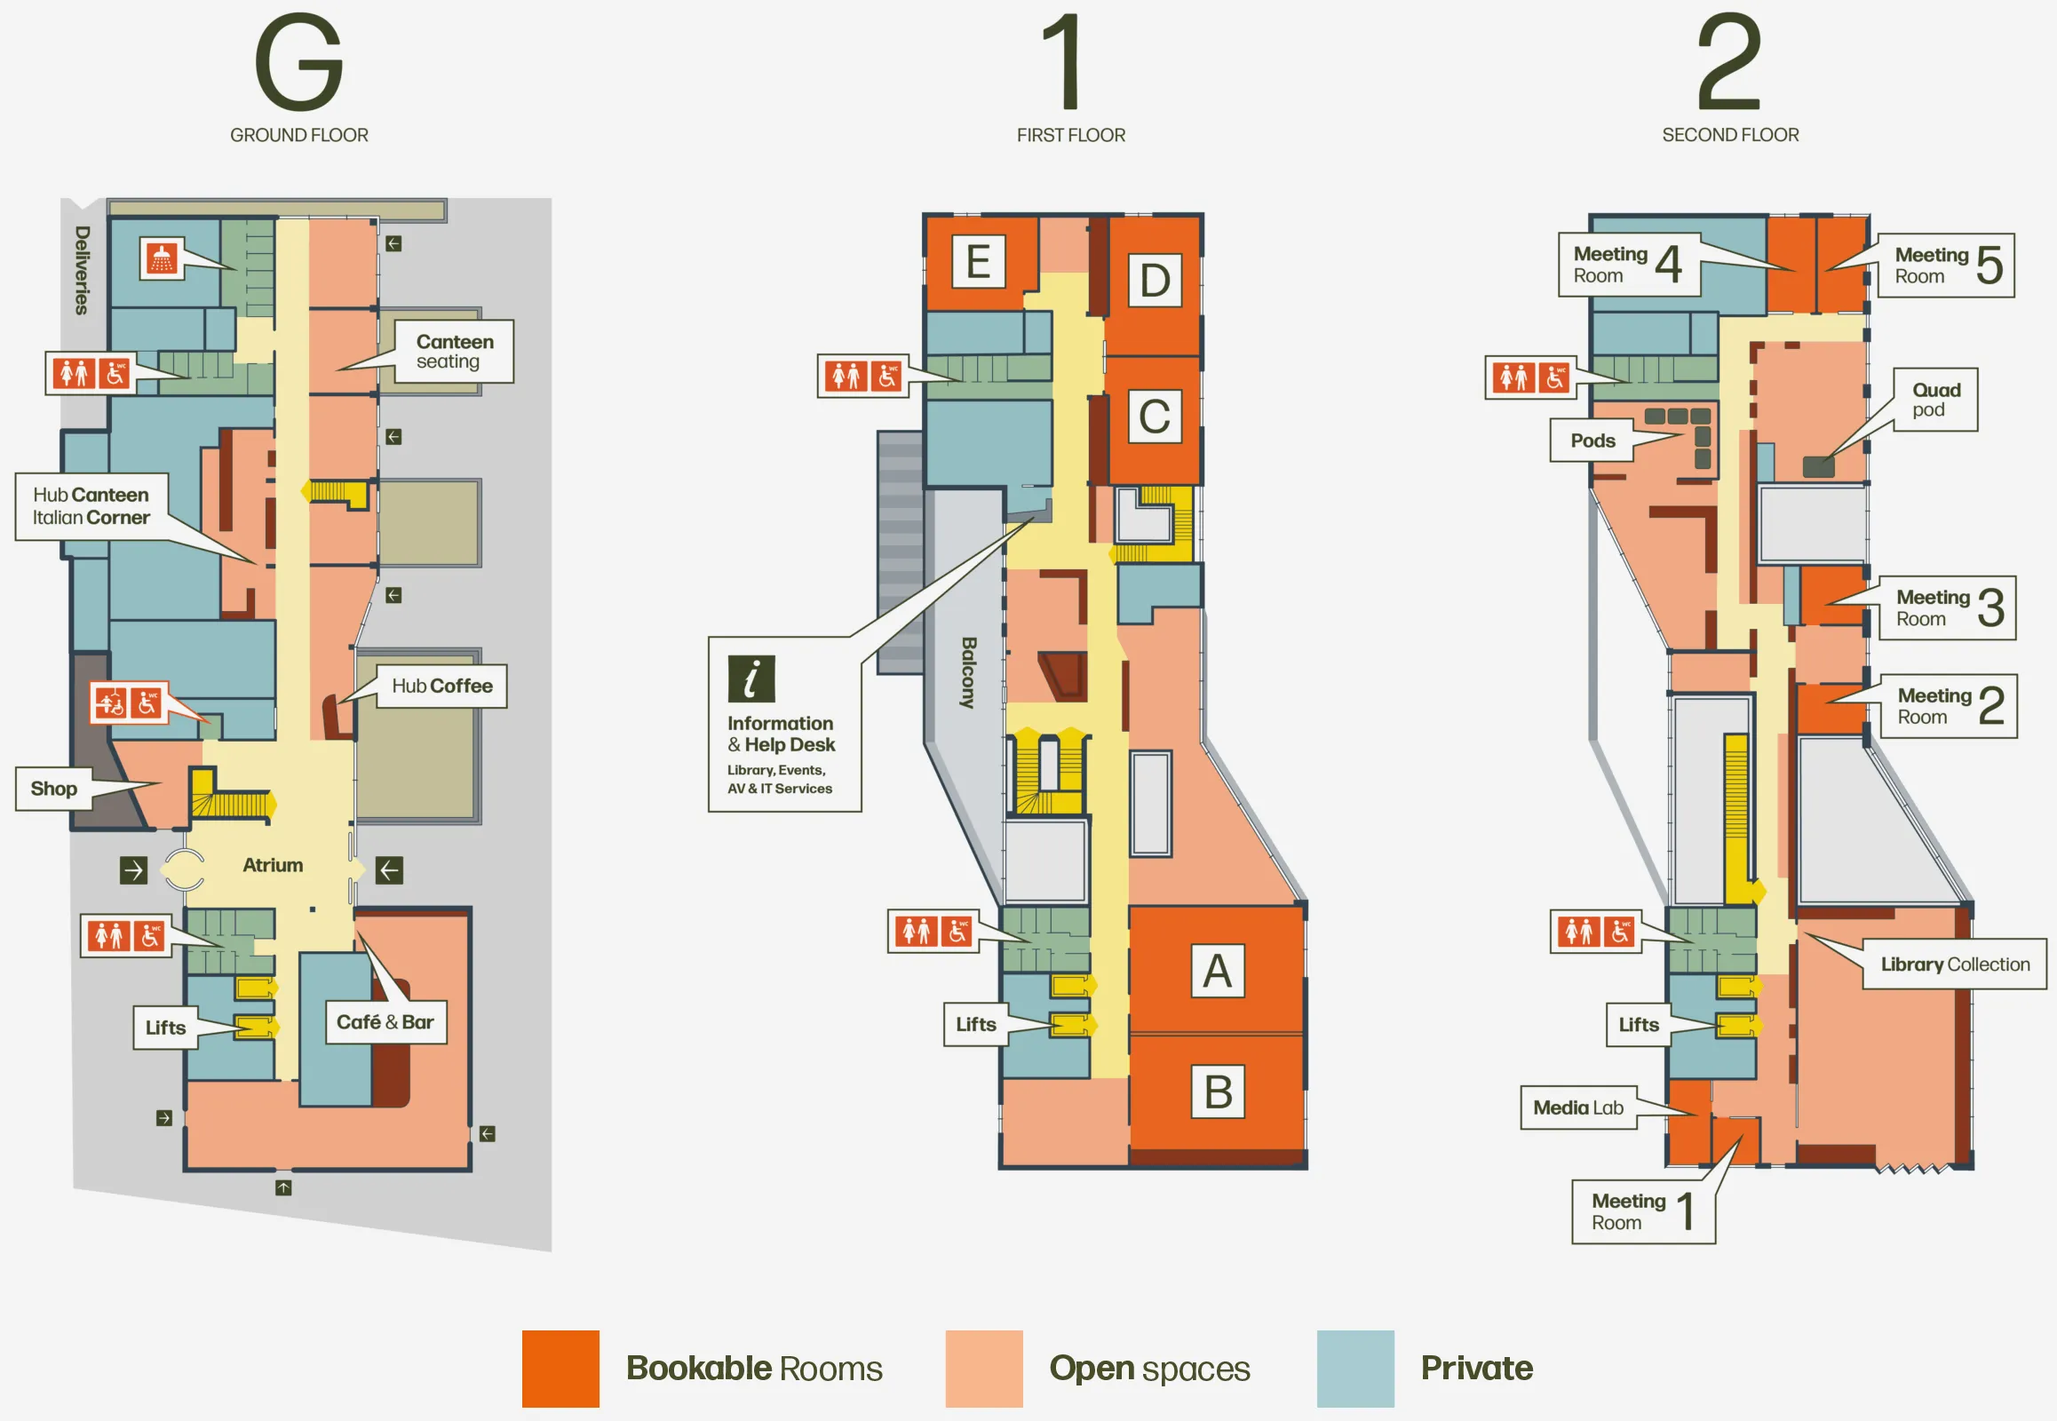
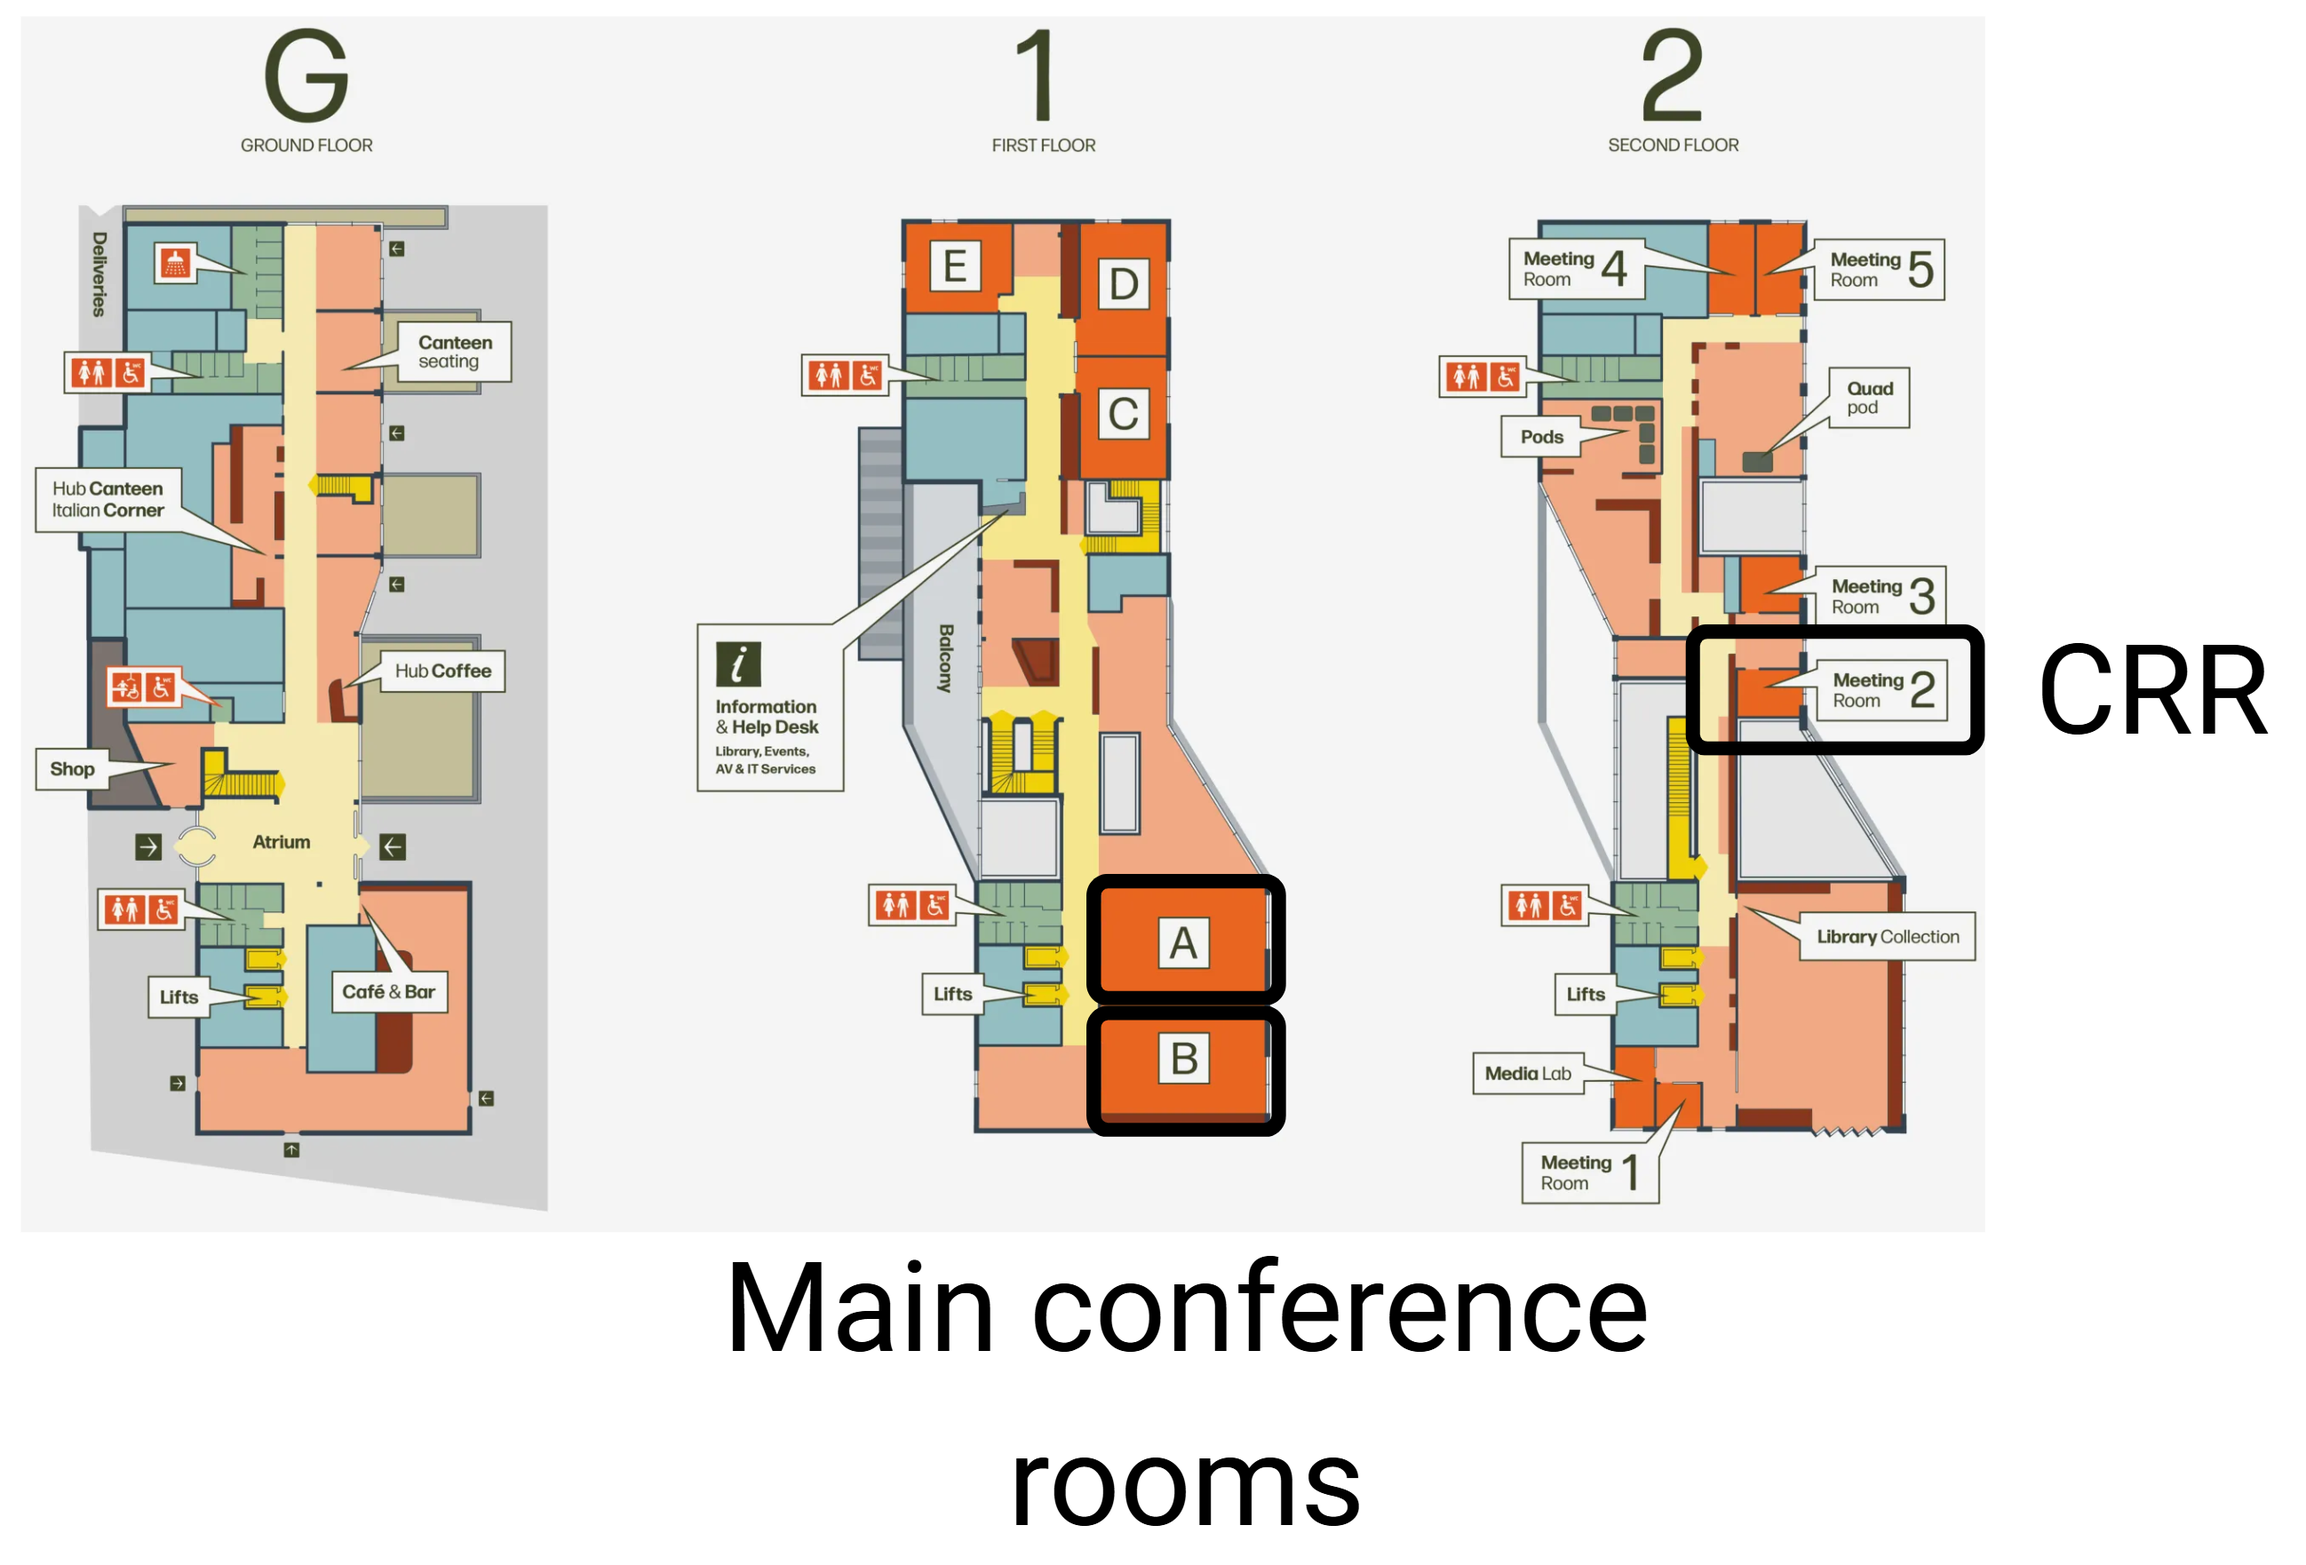
Update programme with room info and venue map

diff --git a/info/programme.html b/info/programme.html
@@ -52,41 +52,51 @@
         <thead class="thead-dark">
             <tr>
                 <th style="width: 20%;">Time</th>
-                <th style="width: 80%;">Session/Activity</th>
+                <th style="width: 60%;">Session/Activity</th>
+                <th style="width: 20%;">Room</th>
             </tr>
         </thead>
         <tbody>
             <tr>
                 <td>8:30</td>
                 <td>Registration opens (until 12:00)</td>
+                <td></td>
             </tr>
             <tr>
                 <td rowspan="3">9:00</td>
                 <td>Doctoral consortium session 1</td>
+                <td>FW09*</td>
             </tr>
             <tr>
                 <td>RIPPA</td>
+                <td>Room A</td>
             </tr>
             <tr>
                 <td>Critical research review</td>
+                <td>Meeting room 2</td>
             </tr>
             <tr>
                 <td>10:30</td>
                 <td>Coffee for all</td>
+                <td></td>
             </tr>
             <tr>
                 <td rowspan="3">10:45</td>
                 <td>Doctoral consortium session 2</td>
+                <td>FW09*</td>
             </tr>
             <tr>
                 <td>RIPPA</td>
+                <td>Room A</td>
             </tr>
             <tr>
                 <td>Critical research review</td>
+                <td>Meeting room 2</td>
             </tr>
             <tr>
                 <td>12:00</td>
                 <td>Conference opening (general chairs)</td>
+                <td>Room A</td>
             </tr>
             <tr>
                 <td>12:10</td>
@@ -94,14 +104,17 @@
                     <strong>Keynote: Learning AI Fundamentals</strong>
                     <p>Professor Alan Blackwell (University of Cambridge, UK)</p>
                 </td>
+                <td>Room A</td>
             </tr>
             <tr>
                 <td>13:00</td>
                 <td>Lunch</td>
+                <td></td>
             </tr>
             <tr>
                 <td>13:45</td>
                 <td>How UKICER works (programme chairs)</td>
+                <td>Room A</td>
             </tr>
             <tr>
                 <td>13:50</td>
@@ -119,18 +132,22 @@
                         </li>
                     </ul>
                 </td>
+                <td>Room A</td>
             </tr>
             <tr>
                 <td>15:20</td>
                 <td>Poster lightning talks (1 minute each)</td>
+                <td>Room A</td>
             </tr>
             <tr>
                 <td>15:40</td>
                 <td>Coffee and <a href="workshops-and-posters.html">posters</a></td>
+                <td>Room B</td>
             </tr>
             <tr>
                 <td>16:10</td>
                 <td>Doctoral consortium presentations</td>
+                <td>Room A</td>
             </tr>
             <tr>
                 <td>16:20</td>
@@ -148,10 +165,12 @@
                         </li>
                     </ul>
                 </td>
+                <td>Room A</td>
             </tr>
             <tr>
                 <td>19:00</td>
                 <td>Conference dinner</td>
+                <td><a href="https://www.magd.cam.ac.uk/" target="_blank">Magdalene college</a></td>
             </tr>
         </tbody>
         </table>
@@ -161,13 +180,15 @@
         <thead class="thead-dark">
             <tr>
                 <th style="width: 20%;">Time</th>
-                <th style="width: 80%;">Session/Activity</th>
+                <th style="width: 60%;">Session/Activity</th>
+                <th style="width: 20%;">Room</th>
             </tr>
         </thead>
         <tbody>
             <tr>
                 <td>8:30</td>
                 <td>Registration</td>
+                <td></td>
             </tr>
             <tr>
                 <td>9:00</td>
@@ -185,10 +206,12 @@
                         </li>
                     </ul>
                 </td>
+                <td>Room A</td>
             </tr>
             <tr>
                 <td>10:30</td>
                 <td>Coffee and <a href="workshops-and-posters.html">posters</a></td>
+                <td>Room B</td>
             </tr>
             <tr>
                 <td>11:00</td>
@@ -206,14 +229,17 @@
                         </li>
                     </ul>
                 </td>
+                <td>Room A</td>
             </tr>
             <tr>
                 <td>12:15</td>
                 <td>UKICER 2027 announcement</td>
+                <td>Room A</td>
             </tr>
             <tr>
                 <td>12:20</td>
                 <td>Lunch and <a href="workshops-and-posters.html">posters</a></td>
+                <td>Room B</td>
             </tr>
             <tr>
                 <td rowspan="3">13:00</td>
@@ -221,30 +247,39 @@
                     <strong>Workshop 1: The Best of Both Worlds&mdash;Beyond Unplugged</strong>
                     <p>Annika Vielsack (Karlsruhe Institute of Technology, Germany), Beatrice Deutschmann (unaffiliated)</p>
                 </td>
+                <td>Room A/B (to be confirmed)</td>
             </tr>
+            
             <tr>
                 <td>
                     <strong>Workshop 2: What is a "Good" Honours Project in Computing?</strong>
                     <p>Mark Zarb (Robert Gordon University, UK), Steve Riddle (Newcastle University, UK)</p>
                 </td>
+                <td>Room A/B (to be confirmed)</td>
             </tr>
             <tr>
                 <td><strong>Doctoral consortium session 3</strong></td>
+                <td>FW09*</td>
             </tr>
             <tr>
                 <td>14:30</td>
                 <td>Coffee</td>
+                <td></td>
             </tr>
             <tr>
                 <td>15:00</td>
                 <td>Closing remarks</td>
+                <td>Room A</td>
             </tr>
             <tr>
                 <td>15:15</td>
                 <td>Conference close</td>
+                <td>Room A</td>
             </tr>
         </tbody>
         </table>
+
+        <p><em>*The doctorial consortium will take place at the Department of Computer Science and Technology, which is across the road from the West Hub.</em></p>
 
         <h3>West Hub Map</h3>
         <img src="../images/2026-venue-map.png" alt="West Hub map" class="venue-map">
